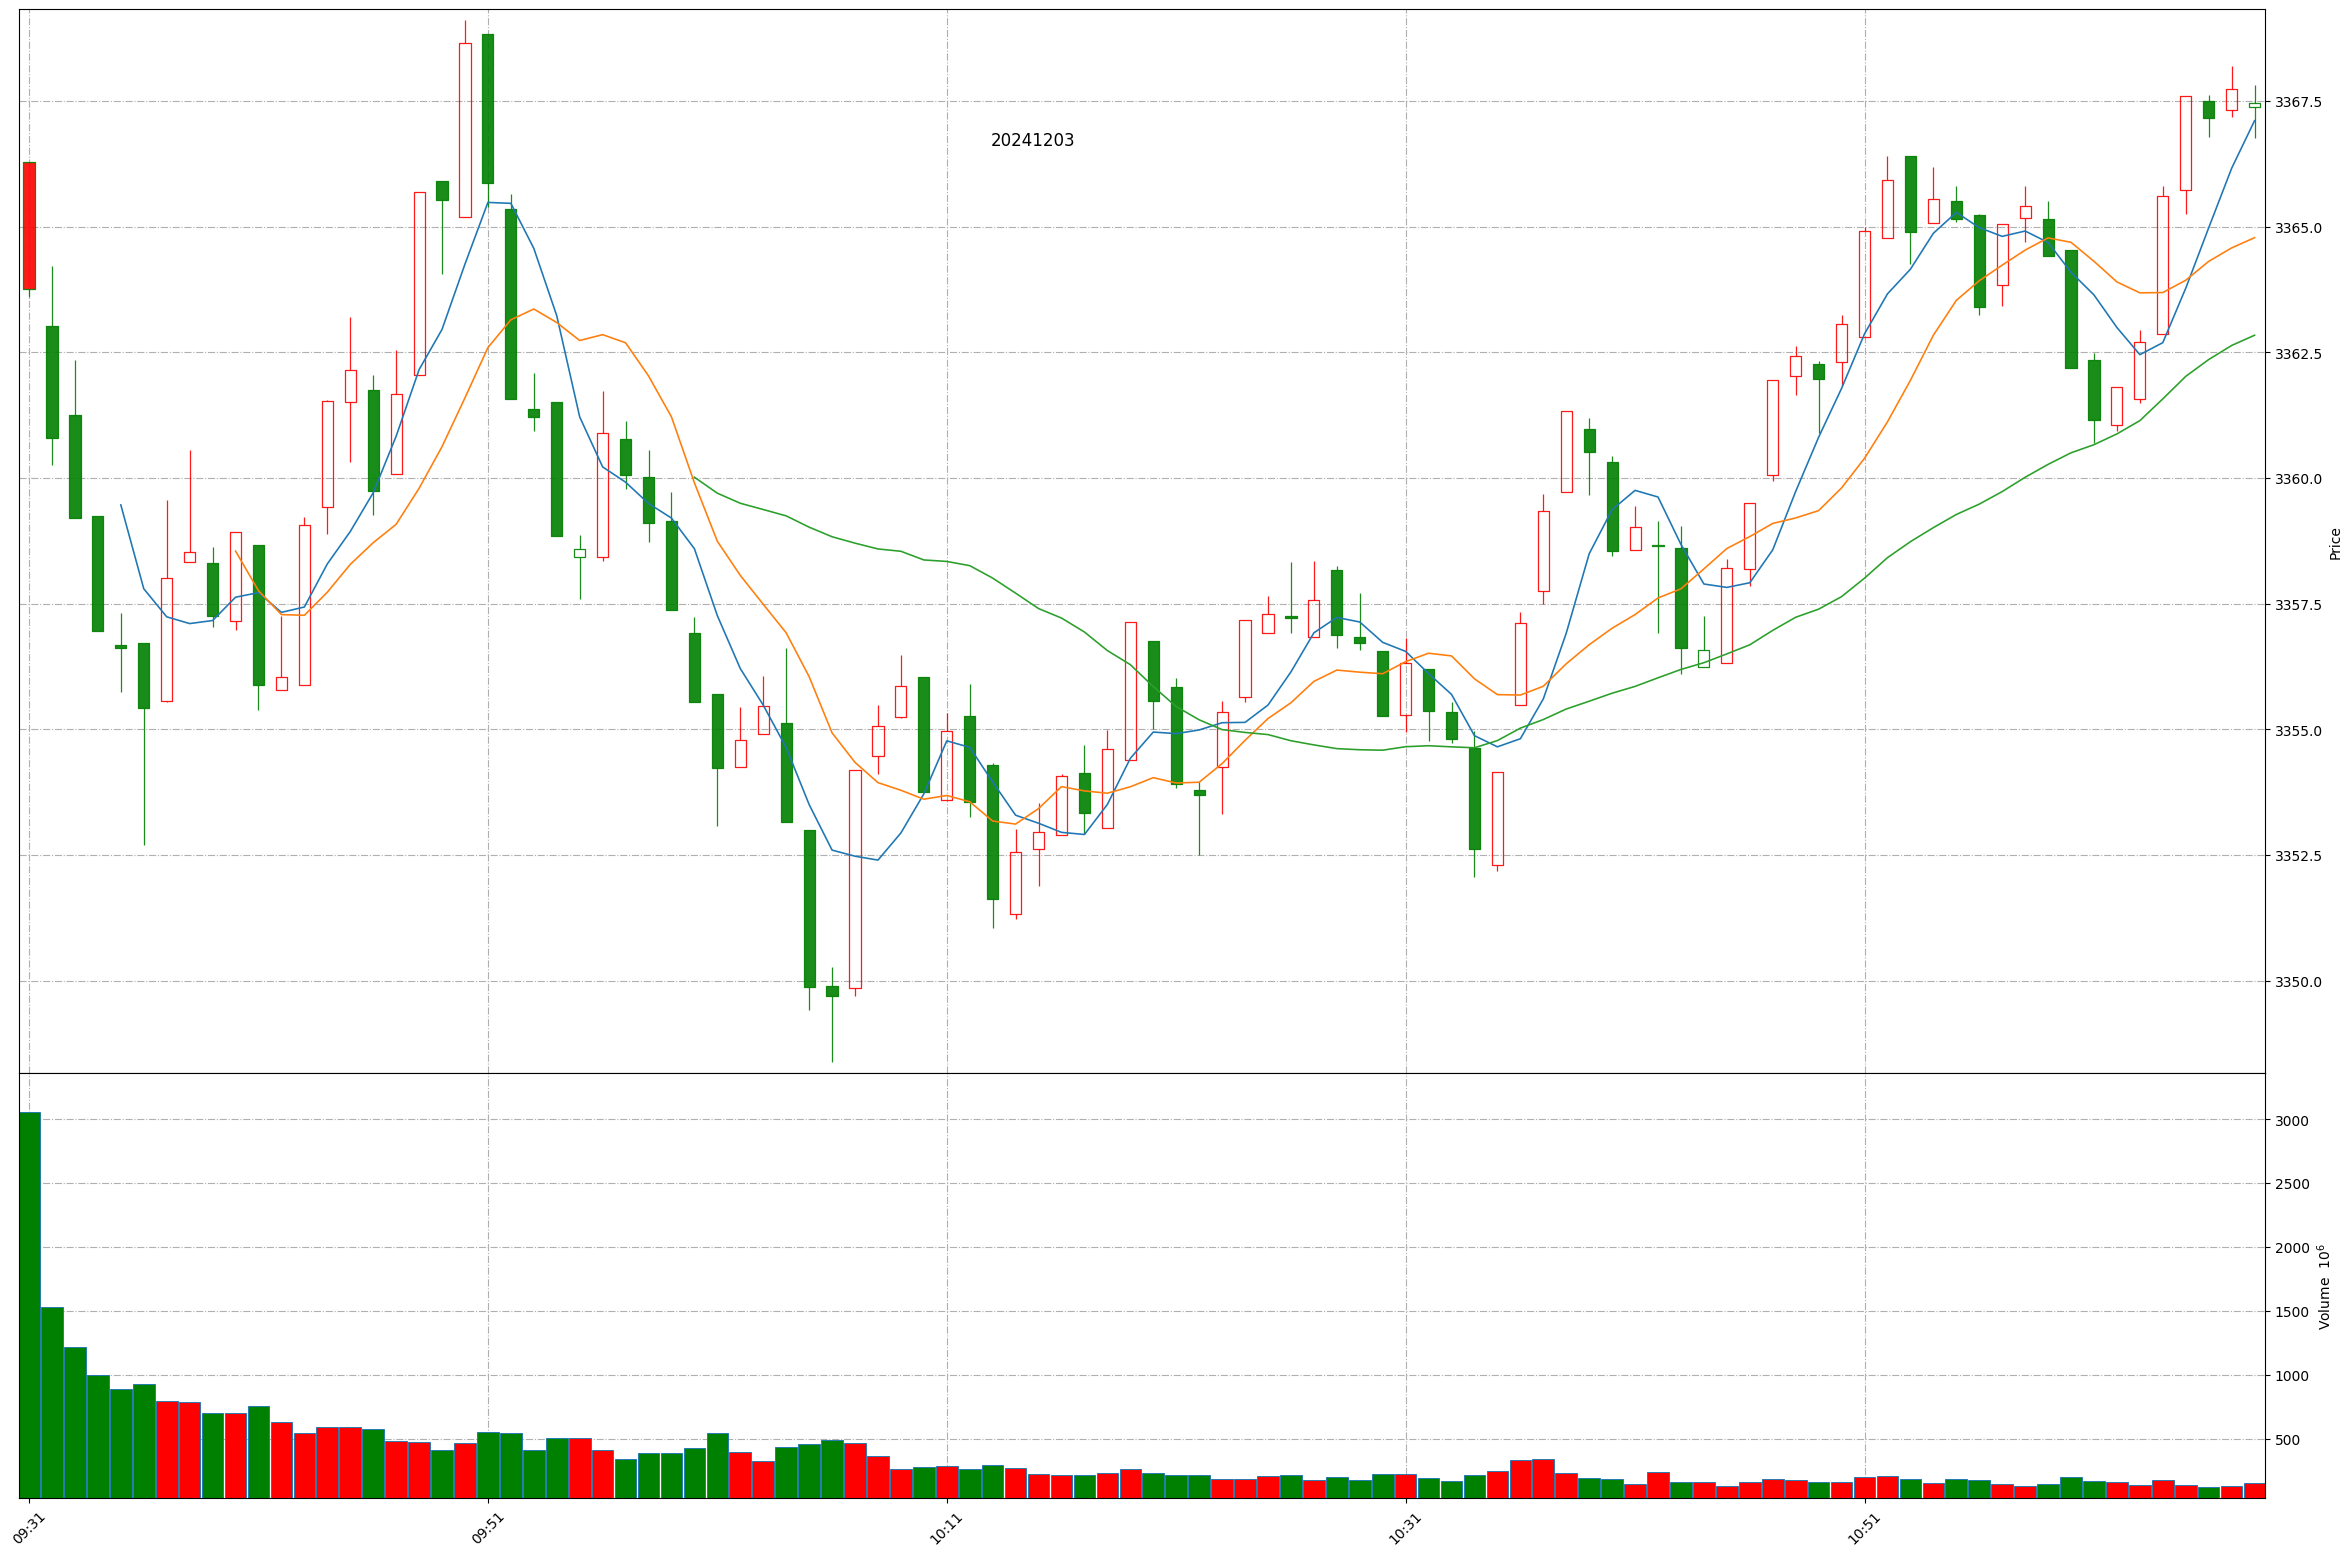
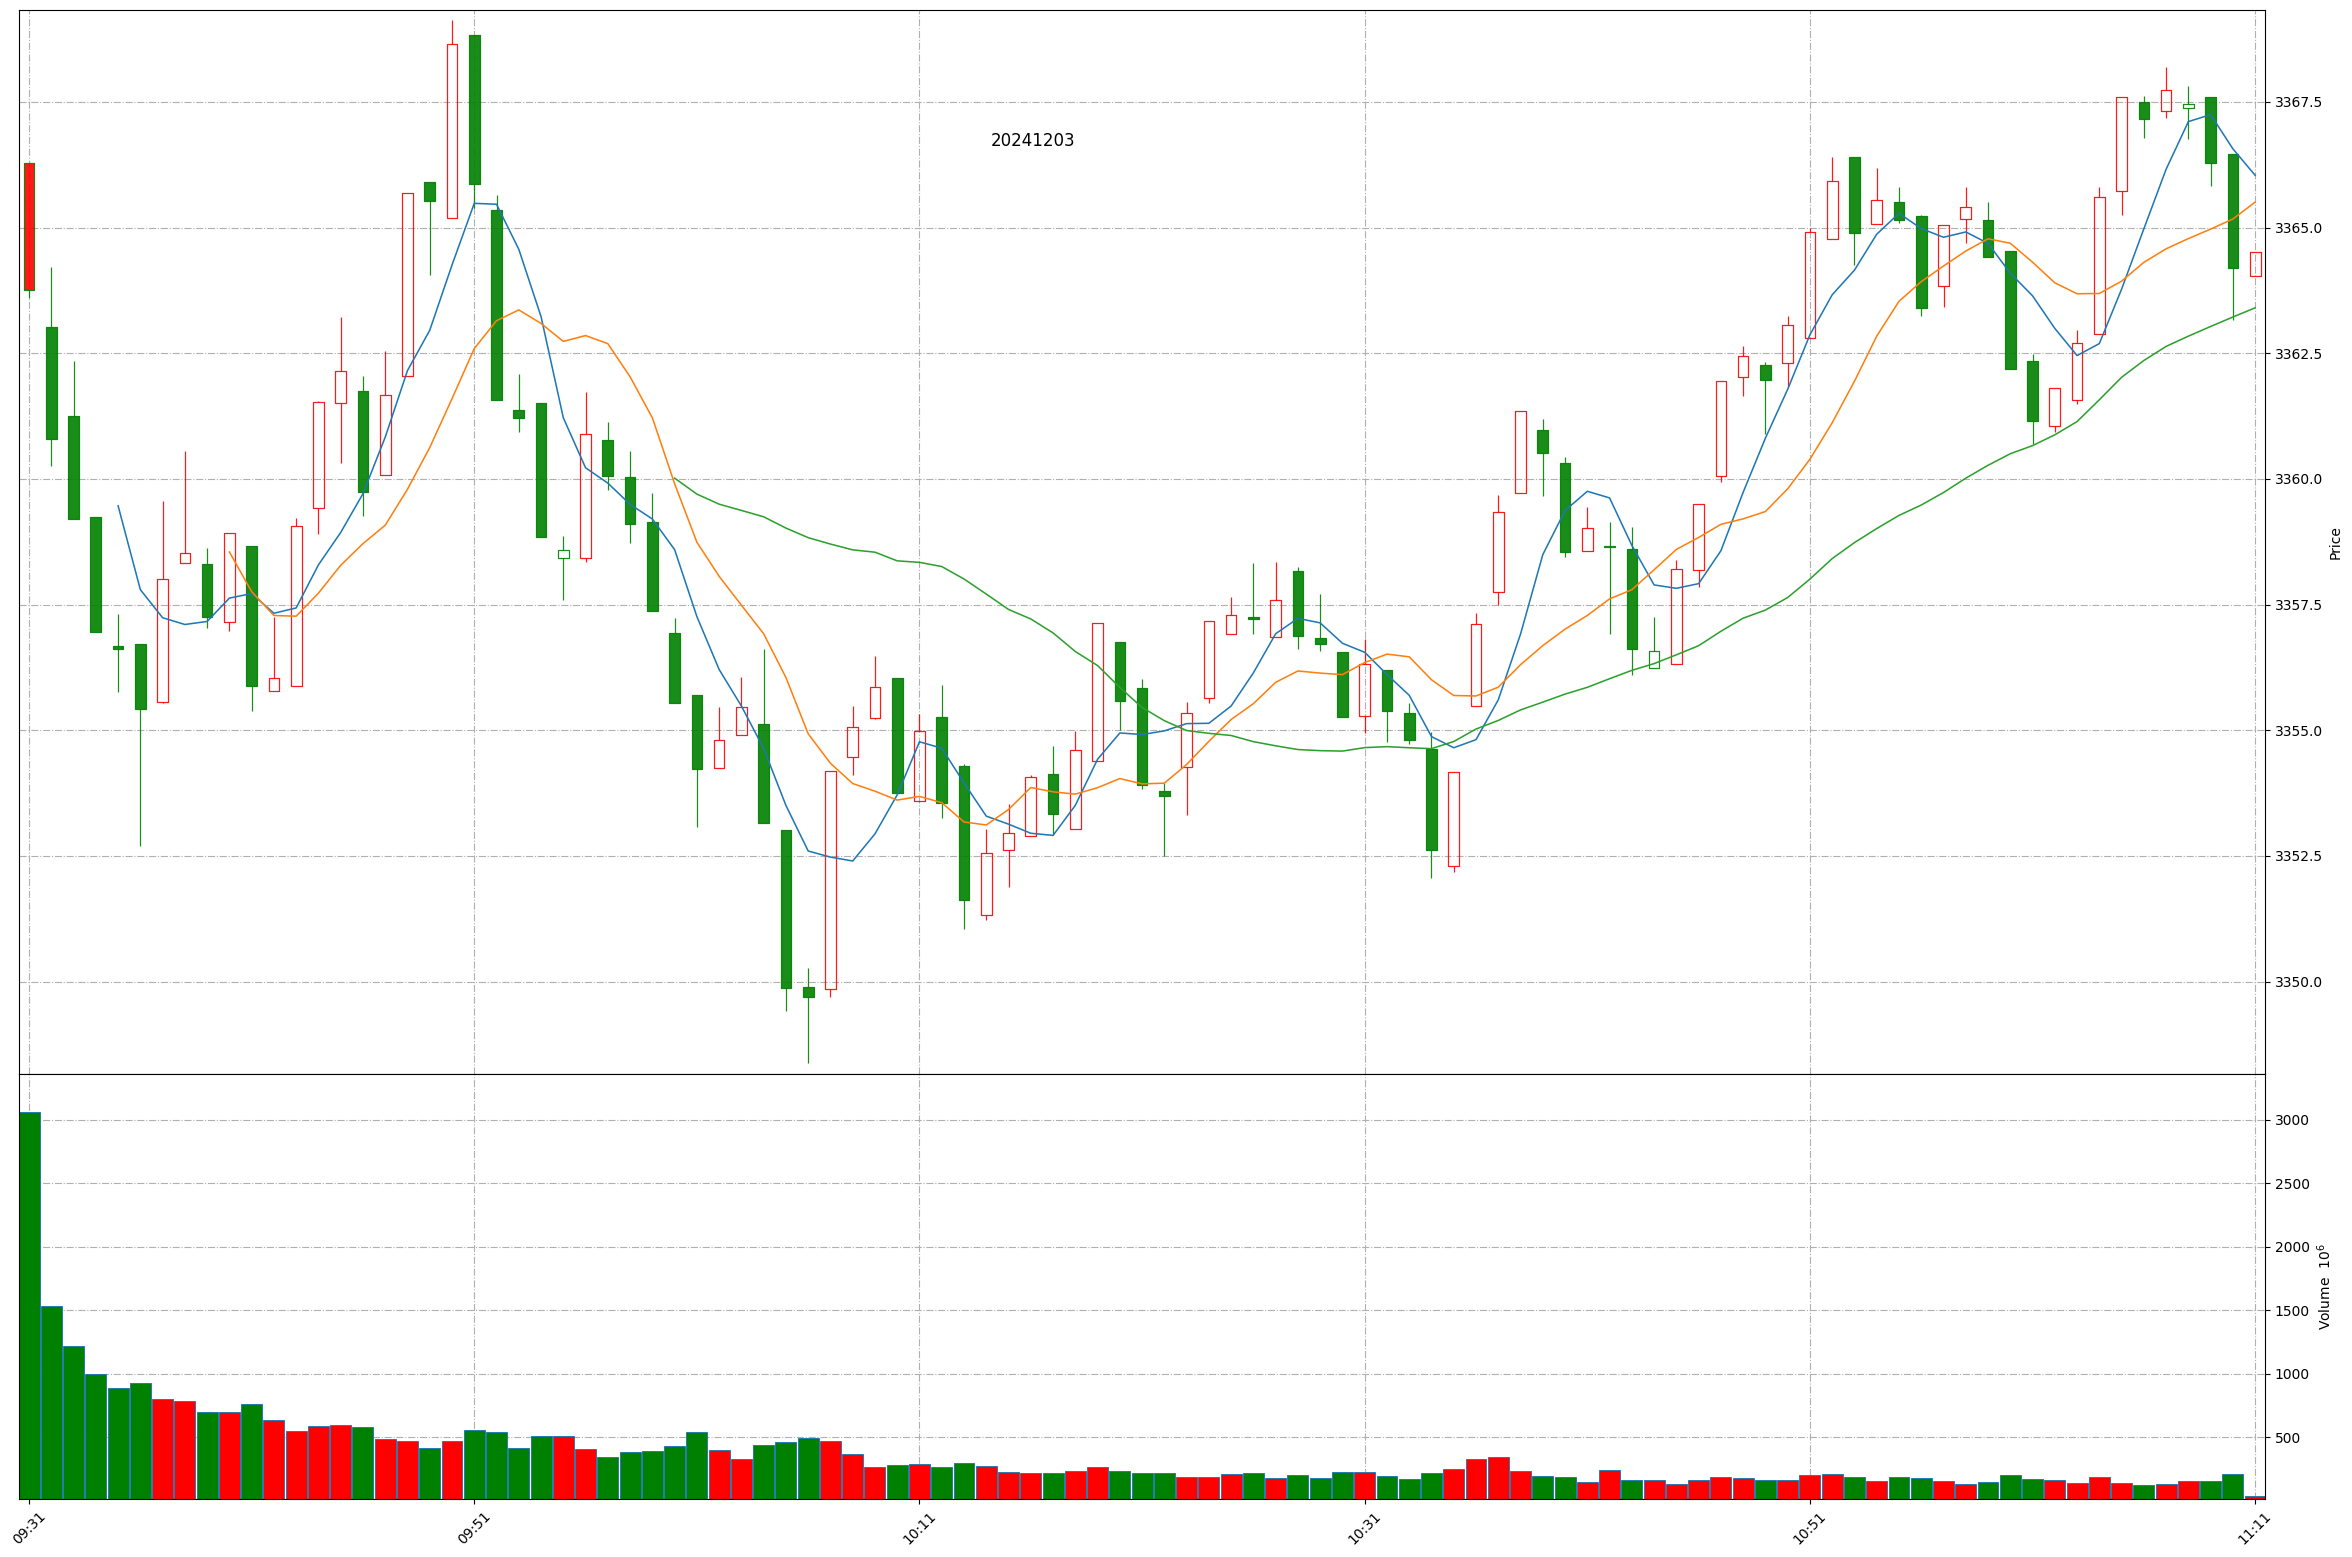
Github action update at 2024-12-03 11:10:38.

diff --git a/README.md b/README.md
@@ -1,11 +1,11 @@
 
 # Daily-A-share-market-quotes 每日 A 股指数（5min 更新）- 20241203
 
-### 上证指数 20241203 11:8
+### 上证指数 20241203 11:10
 ![](./fig/2024/12/20241203-sh000001.png)
 
-### 深证成指 20241203 11:8
+### 深证成指 20241203 11:10
 ![](./fig/2024/12/20241203-sz399001.png)
 
-### 北证50 20241203 11:8
+### 北证50 20241203 11:10
 ![](./fig/2024/12/20241203-bj899050.png)
